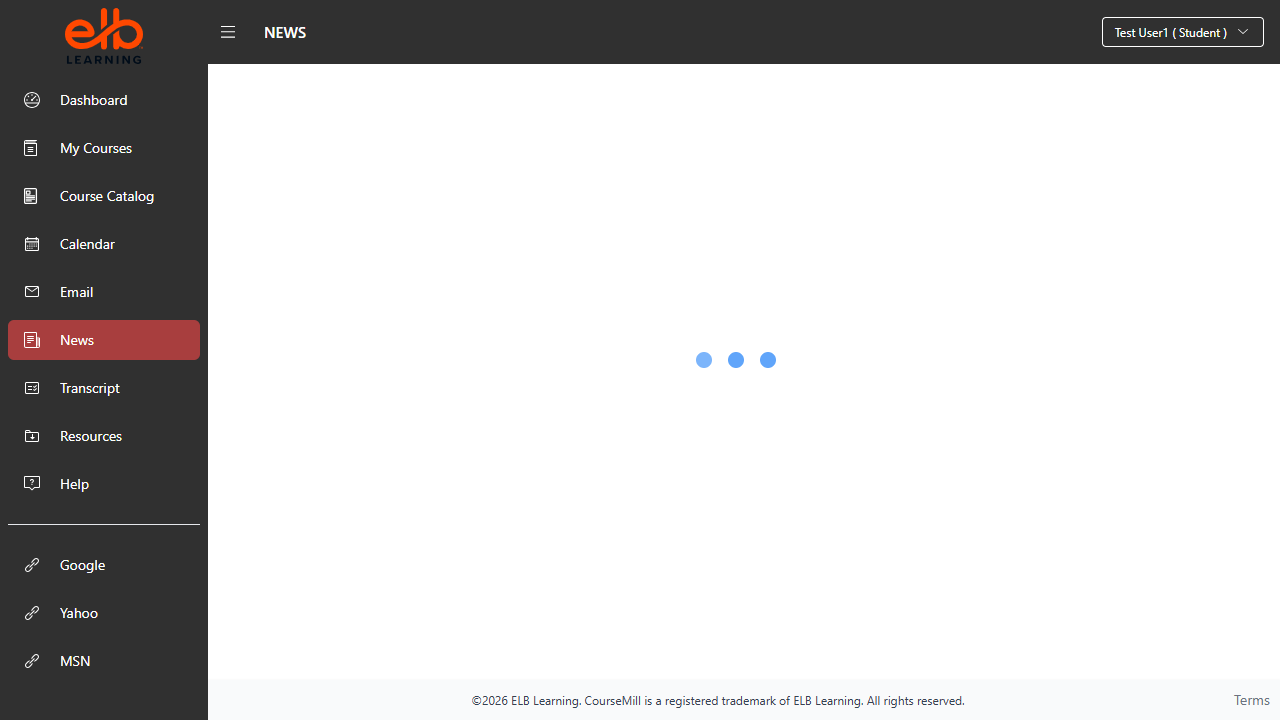
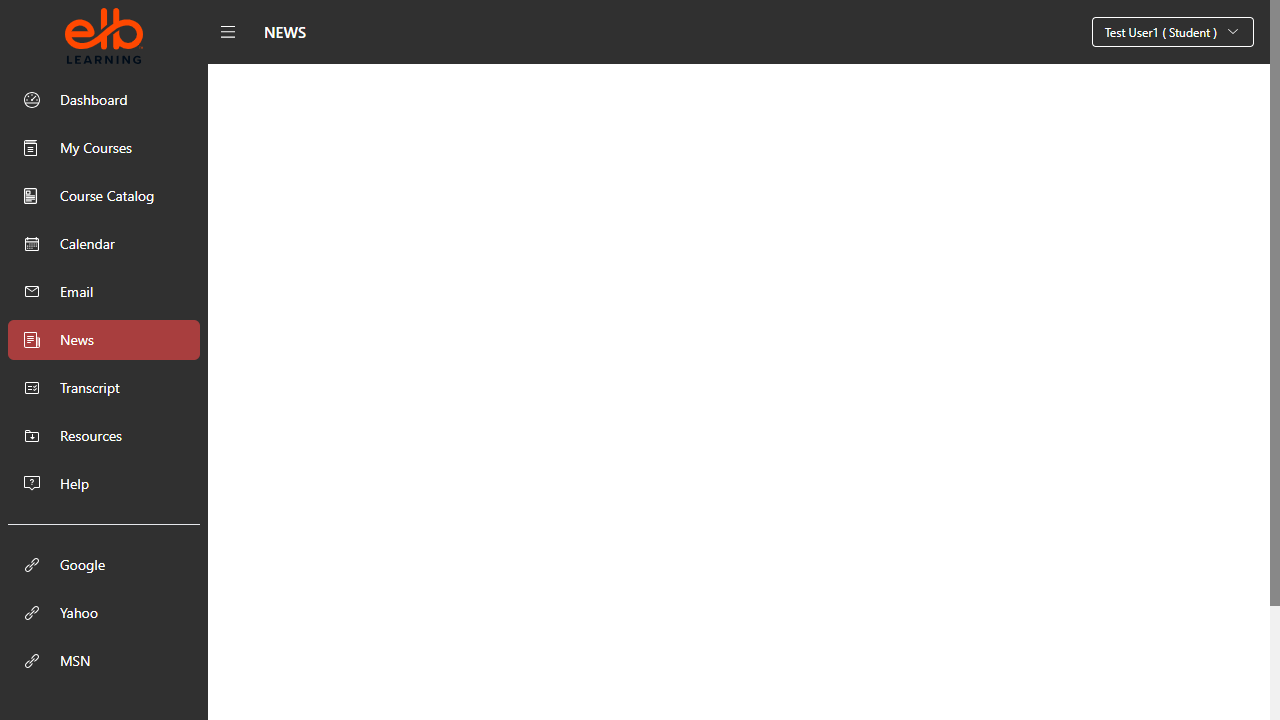
Auto update report - 1/4/2026, 1:42:12 pm

diff --git a/ortoni-report/index.html b/ortoni-report/index.html
@@ -14,7 +14,7 @@
   </head>
   <body>
     <script id="__ORTONI_REPORT_DATA__" type="application/json">
-      {"data":{"summary":{"overAllResult":{"pass":9,"fail":0,"skip":0,"retry":0,"flaky":0,"total":9},"successRate":"100.00","lastRunDate":"Apr 01, 2026, 01:17 PM","totalDuration":47705.105,"stats":{"projectNames":[""],"totalTests":[9],"passedTests":[9],"failedTests":[0],"skippedTests":[0],"retryTests":[0],"flakyTests":[0]}},"testResult":{"tests":{"Login.spec.ts":{"Login Page UI Validation":[{"suiteHierarchy":"","key":"Login.spec.ts::Login Page UI Validation-42af536f2c838a173cb6-3d7df92dbd3a28149a26-0","annotations":[],"testTags":[],"location":"Login.spec.ts:5:5","retryAttemptCount":0,"projectName":"","suite":"Login Page UI Validation","title":"Login Page UI Validation","status":"passed","flaky":"expected","duration":11023,"errors":[],"steps":[{"snippet":"","title":"Before Hooks","location":"","duration":4708,"status":"passed","category":"hook","steps":[{"snippet":"","title":"Fixture \"browser\"","location":"","duration":1363,"status":"passed","category":"fixture","steps":[{"snippet":"","title":"Launch browser","location":"","duration":1324,"status":"passed","category":"pw:api","steps":[]}]},{"snippet":"","title":"Fixture \"context\"","location":"","duration":141,"status":"passed","category":"fixture","steps":[{"snippet":"","title":"Create context","location":"","duration":36,"status":"passed","category":"pw:api","steps":[]}]},{"snippet":"","title":"Fixture \"page\"","location":"","duration":3146,"status":"passed","category":"fixture","steps":[{"snippet":"","title":"Create page","location":"","duration":3113,"status":"passed","category":"pw:api","steps":[]}]}]},{"snippet":"","title":"Navigate to \"/nsui/login?route=/dashboard\"","location":"","duration":4925,"status":"passed","category":"pw:api","steps":[]},{"snippet":"","title":"Expect \"toBeVisible\" locator('#username')","location":"","duration":171,"status":"passed","category":"expect","steps":[]},{"snippet":"","title":"Expect \"toBeVisible\" locator('#password')","location":"","duration":21,"status":"passed","category":"expect","steps":[]},{"snippet":"","title":"Expect \"toBeVisible\" locator('#submitBtn')","location":"","duration":18,"status":"passed","category":"expect","steps":[]},{"snippet":"","title":"After Hooks","location":"","duration":2458,"status":"passed","category":"hook","steps":[{"snippet":"","title":"Fixture \"page\"","location":"","duration":1,"status":"passed","category":"fixture","steps":[]},{"snippet":"","title":"Fixture \"context\"","location":"","duration":2093,"status":"passed","category":"fixture","steps":[{"snippet":"","title":"Close context","location":"","duration":1913,"status":"passed","category":"pw:api","steps":[]}]}]}],"logs":"","filePath":"Login.spec.ts","filters":{},"testId":"Login.spec.ts::Login Page UI Validation","screenshots":["ortoni-data\\attachments\\42af536f2c838a173cb6-3d7df92dbd3a28149a26\\retry-0\\test-finished-1.png"],"videoPath":[],"index":0}],"Empty Login Validation":[{"suiteHierarchy":"","key":"Login.spec.ts::Empty Login Validation-42af536f2c838a173cb6-2ecf628d08fdfabc7750-0","annotations":[],"testTags":[],"location":"Login.spec.ts:12:5","retryAttemptCount":0,"projectName":"","suite":"Empty Login Validation","title":"Empty Login Validation","status":"passed","flaky":"expected","duration":8720,"errors":[],"steps":[{"snippet":"","title":"Before Hooks","location":"","duration":1964,"status":"passed","category":"hook","steps":[{"snippet":"","title":"Fixture \"context\"","location":"","duration":122,"status":"passed","category":"fixture","steps":[{"snippet":"","title":"Create context","location":"","duration":114,"status":"passed","category":"pw:api","steps":[]}]},{"snippet":"","title":"Fixture \"page\"","location":"","duration":1544,"status":"passed","category":"fixture","steps":[{"snippet":"","title":"Create page","location":"","duration":1538,"status":"passed","category":"pw:api","steps":[]}]}]},{"snippet":"","title":"Navigate to \"/nsui/login?route=/dashboard\"","location":"","duration":4940,"status":"passed","category":"pw:api","steps":[]},{"snippet":"","title":"Wait for selector locator('#username')","location":"","duration":314,"status":"passed","category":"pw:api","steps":[]},{"snippet":"","title":"Expect \"toBeDisabled\" locator('#submitBtn')","location":"","duration":35,"status":"passed","category":"expect","steps":[]},{"snippet":"","title":"After Hooks","location":"","duration":1775,"status":"passed","category":"hook","steps":[{"snippet":"","title":"Fixture \"page\"","location":"","duration":0,"status":"passed","category":"fixture","steps":[]},{"snippet":"","title":"Fixture \"context\"","location":"","duration":1454,"status":"passed","category":"fixture","steps":[{"snippet":"","title":"Close context","location":"","duration":1442,"status":"passed","category":"pw:api","steps":[]}]}]}],"logs":"","filePath":"Login.spec.ts","filters":{},"testId":"Login.spec.ts::Empty Login Validation","screenshots":["ortoni-data\\attachments\\42af536f2c838a173cb6-2ecf628d08fdfabc7750\\retry-0\\test-finished-1.png"],"videoPath":[],"index":2}],"Invalid Login":[{"suiteHierarchy":"","key":"Login.spec.ts::Invalid Login-42af536f2c838a173cb6-524bcc8382ec463dd5bd-0","annotations":[],"testTags":[],"location":"Login.spec.ts:25:5","retryAttemptCount":0,"projectName":"","suite":"Invalid Login","title":"Invalid Login","status":"passed","flaky":"expected","duration":8716,"errors":[],"steps":[{"snippet":"","title":"Before Hooks","location":"","duration":1736,"status":"passed","category":"hook","steps":[{"snippet":"","title":"Fixture \"context\"","location":"","duration":35,"status":"passed","category":"fixture","steps":[{"snippet":"","title":"Create context","location":"","duration":30,"status":"passed","category":"pw:api","steps":[]}]},{"snippet":"","title":"Fixture \"page\"","location":"","duration":1636,"status":"passed","category":"fixture","steps":[{"snippet":"","title":"Create page","location":"","duration":1631,"status":"passed","category":"pw:api","steps":[]}]}]},{"snippet":"","title":"Navigate to \"/nsui/login?route=/dashboard\"","location":"","duration":4960,"status":"passed","category":"pw:api","steps":[]},{"snippet":"","title":"Fill \"wrong\" locator('#username')","location":"","duration":188,"status":"passed","category":"pw:api","steps":[]},{"snippet":"","title":"Fill \"wrong\" locator('#password')","location":"","duration":41,"status":"passed","category":"pw:api","steps":[]},{"snippet":"","title":"Click locator('#submitBtn')","location":"","duration":118,"status":"passed","category":"pw:api","steps":[]},{"snippet":"","title":"Expect \"toBeVisible\" locator('text=The User ID/Password combination you have entered is invalid. Please try again.')","location":"","duration":421,"status":"passed","category":"expect","steps":[]},{"snippet":"","title":"After Hooks","location":"","duration":1305,"status":"passed","category":"hook","steps":[{"snippet":"","title":"Fixture \"page\"","location":"","duration":0,"status":"passed","category":"fixture","steps":[]},{"snippet":"","title":"Fixture \"context\"","location":"","duration":624,"status":"passed","category":"fixture","steps":[{"snippet":"","title":"Close context","location":"","duration":614,"status":"passed","category":"pw:api","steps":[]}]}]}],"logs":"","filePath":"Login.spec.ts","filters":{},"testId":"Login.spec.ts::Invalid Login","screenshots":["ortoni-data\\attachments\\42af536f2c838a173cb6-524bcc8382ec463dd5bd\\retry-0\\test-finished-1.png"],"videoPath":[],"index":6}],"Valid Login - CourseMill":[{"suiteHierarchy":"","key":"Login.spec.ts::Valid Login - CourseMill-42af536f2c838a173cb6-52683aa44eae3026a2e3-0","annotations":[],"testTags":[],"location":"Login.spec.ts:34:5","retryAttemptCount":0,"projectName":"","suite":"Valid Login - CourseMill","title":"Valid Login - CourseMill","status":"passed","flaky":"expected","duration":7325,"errors":[],"steps":[{"snippet":"","title":"Before Hooks","location":"","duration":657,"status":"passed","category":"hook","steps":[{"snippet":"","title":"Fixture \"context\"","location":"","duration":31,"status":"passed","category":"fixture","steps":[{"snippet":"","title":"Create context","location":"","duration":28,"status":"passed","category":"pw:api","steps":[]}]},{"snippet":"","title":"Fixture \"page\"","location":"","duration":592,"status":"passed","category":"fixture","steps":[{"snippet":"","title":"Create page","location":"","duration":588,"status":"passed","category":"pw:api","steps":[]}]}]},{"snippet":"","title":"Navigate to \"/nsui/login?route=/dashboard\"","location":"","duration":5046,"status":"passed","category":"pw:api","steps":[]},{"snippet":"","title":"Fill \"nandhinid-student\" locator('#username')","location":"","duration":176,"status":"passed","category":"pw:api","steps":[]},{"snippet":"","title":"Fill \"P@ssw0rd\" locator('#password')","location":"","duration":40,"status":"passed","category":"pw:api","steps":[]},{"snippet":"","title":"Click locator('#submitBtn')","location":"","duration":63,"status":"passed","category":"pw:api","steps":[]},{"snippet":"","title":"Expect \"toHaveURL\"","location":"","duration":24,"status":"passed","category":"expect","steps":[]},{"snippet":"","title":"After Hooks","location":"","duration":1355,"status":"passed","category":"hook","steps":[{"snippet":"","title":"Fixture \"page\"","location":"","duration":0,"status":"passed","category":"fixture","steps":[]},{"snippet":"","title":"Fixture \"context\"","location":"","duration":1122,"status":"passed","category":"fixture","steps":[{"snippet":"","title":"Close context","location":"","duration":1110,"status":"passed","category":"pw:api","steps":[]}]}]}],"logs":"","filePath":"Login.spec.ts","filters":{},"testId":"Login.spec.ts::Valid Login - CourseMill","screenshots":["ortoni-data\\attachments\\42af536f2c838a173cb6-52683aa44eae3026a2e3\\retry-0\\test-finished-1.png"],"videoPath":[],"index":7}]},"Email.spec.ts":{"News Page Validation":[{"suiteHierarchy":"","key":"Email.spec.ts::News Page Validation-25ae2b07434871a76d8a-6d5edecf8000207f4c58-0","annotations":[],"testTags":[],"location":"Email.spec.ts:4:5","retryAttemptCount":0,"projectName":"","suite":"News Page Validation","title":"News Page Validation","status":"passed","flaky":"expected","duration":13377,"errors":[],"steps":[{"snippet":"","title":"Before Hooks","location":"","duration":4714,"status":"passed","category":"hook","steps":[{"snippet":"","title":"Fixture \"browser\"","location":"","duration":2162,"status":"passed","category":"fixture","steps":[{"snippet":"","title":"Launch browser","location":"","duration":2132,"status":"passed","category":"pw:api","steps":[]}]},{"snippet":"","title":"Fixture \"context\"","location":"","duration":121,"status":"passed","category":"fixture","steps":[{"snippet":"","title":"Create context","location":"","duration":26,"status":"passed","category":"pw:api","steps":[]}]},{"snippet":"","title":"Fixture \"page\"","location":"","duration":2343,"status":"passed","category":"fixture","steps":[{"snippet":"","title":"Create page","location":"","duration":2271,"status":"passed","category":"pw:api","steps":[]}]}]},{"snippet":"","title":"Navigate to \"/nsui/login?route=/dashboard\"","location":"","duration":5188,"status":"passed","category":"pw:api","steps":[]},{"snippet":"","title":"Fill \"regtestuser_01\" locator('#username')","location":"","duration":309,"status":"passed","category":"pw:api","steps":[]},{"snippet":"","title":"Fill \"P@ssw0rd\" locator('#password')","location":"","duration":49,"status":"passed","category":"pw:api","steps":[]},{"snippet":"","title":"Click locator('#submitBtn')","location":"","duration":116,"status":"passed","category":"pw:api","steps":[]},{"snippet":"","title":"Expect \"toBeVisible\" locator('a[href=\"/nsui/email\"]')","location":"","duration":3088,"status":"passed","category":"expect","steps":[]},{"snippet":"","title":"Click locator('a[href=\"/nsui/email\"]')","location":"","duration":89,"status":"passed","category":"pw:api","steps":[]},{"snippet":"","title":"Expect \"toHaveURL\"","location":"","duration":1021,"status":"passed","category":"expect","steps":[]},{"snippet":"","title":"After Hooks","location":"","duration":907,"status":"passed","category":"hook","steps":[{"snippet":"","title":"Fixture \"page\"","location":"","duration":0,"status":"passed","category":"fixture","steps":[]},{"snippet":"","title":"Fixture \"context\"","location":"","duration":649,"status":"passed","category":"fixture","steps":[{"snippet":"","title":"Close context","location":"","duration":553,"status":"passed","category":"pw:api","steps":[]}]}]}],"logs":"","filePath":"Email.spec.ts","filters":{},"testId":"Email.spec.ts::News Page Validation","screenshots":["ortoni-data\\attachments\\25ae2b07434871a76d8a-6d5edecf8000207f4c58\\retry-0\\test-finished-1.png"],"videoPath":[],"index":1}]},"Forgotpassword.spec.ts":{"Forgot Password - Full Validation":[{"suiteHierarchy":"","key":"Forgotpassword.spec.ts::Forgot Password - Full Validation-7879cf711710044d8d36-02c3863d4a0394ef81f5-0","annotations":[],"testTags":[],"location":"Forgotpassword.spec.ts:4:5","retryAttemptCount":0,"projectName":"","suite":"Forgot Password - Full Validation","title":"Forgot Password - Full Validation","status":"passed","flaky":"expected","duration":24028,"errors":[],"steps":[{"snippet":"","title":"Before Hooks","location":"","duration":4320,"status":"passed","category":"hook","steps":[{"snippet":"","title":"Fixture \"browser\"","location":"","duration":1316,"status":"passed","category":"fixture","steps":[{"snippet":"","title":"Launch browser","location":"","duration":1271,"status":"passed","category":"pw:api","steps":[]}]},{"snippet":"","title":"Fixture \"context\"","location":"","duration":177,"status":"passed","category":"fixture","steps":[{"snippet":"","title":"Create context","location":"","duration":49,"status":"passed","category":"pw:api","steps":[]}]},{"snippet":"","title":"Fixture \"page\"","location":"","duration":2770,"status":"passed","category":"fixture","steps":[{"snippet":"","title":"Create page","location":"","duration":2701,"status":"passed","category":"pw:api","steps":[]}]}]},{"snippet":"","title":"Navigate to \"/nsui/login?route=/dashboard\"","location":"","duration":5199,"status":"passed","category":"pw:api","steps":[]},{"snippet":"","title":"Click locator('text=Forgot Password')","location":"","duration":373,"status":"passed","category":"pw:api","steps":[]},{"snippet":"","title":"Expect \"toHaveURL\"","location":"","duration":649,"status":"passed","category":"expect","steps":[]},{"snippet":"","title":"Expect \"toBeVisible\" getByText('Forgot Your Password?')","location":"","duration":408,"status":"passed","category":"expect","steps":[]},{"snippet":"","title":"Expect \"toBeVisible\" getByText(/We've got your back/i)","location":"","duration":163,"status":"passed","category":"expect","steps":[]},{"snippet":"","title":"Expect \"toBeVisible\" locator('#username')","location":"","duration":78,"status":"passed","category":"expect","steps":[]},{"snippet":"","title":"Expect \"toBeVisible\" getByRole('button', { name: 'Send Request' })","location":"","duration":54,"status":"passed","category":"expect","steps":[]},{"snippet":"","title":"Expect \"toBeVisible\" getByRole('link', { name: 'Return to Login' })","location":"","duration":13,"status":"passed","category":"expect","steps":[]},{"snippet":"","title":"Expect \"toBeDisabled\" getByRole('button', { name: 'Send Request' })","location":"","duration":18,"status":"passed","category":"expect","steps":[]},{"snippet":"","title":"Fill \"testuser\" locator('#username')","location":"","duration":45,"status":"passed","category":"pw:api","steps":[]},{"snippet":"","title":"Expect \"toBeEnabled\" getByRole('button', { name: 'Send Request' })","location":"","duration":44,"status":"passed","category":"expect","steps":[]},{"snippet":"","title":"Fill \"\" locator('#username')","location":"","duration":54,"status":"passed","category":"pw:api","steps":[]},{"snippet":"","title":"Expect \"toBeDisabled\" getByRole('button', { name: 'Send Request' })","location":"","duration":22,"status":"passed","category":"expect","steps":[]},{"snippet":"","title":"Fill \"invalid_user\" locator('#username')","location":"","duration":22,"status":"passed","category":"pw:api","steps":[]},{"snippet":"","title":"Click getByRole('button', { name: 'Send Request' })","location":"","duration":71,"status":"passed","category":"pw:api","steps":[]},{"snippet":"","title":"Expect \"toBeVisible\" locator('text=Invalid User Data')","location":"","duration":463,"status":"passed","category":"expect","steps":[]},{"snippet":"","title":"Clear locator('#username')","location":"","duration":25,"status":"passed","category":"pw:api","steps":[]},{"snippet":"","title":"Fill \"testn4\" locator('#username')","location":"","duration":23,"status":"passed","category":"pw:api","steps":[]},{"snippet":"","title":"Click getByRole('button', { name: 'Send Request' })","location":"","duration":375,"status":"passed","category":"pw:api","steps":[]},{"snippet":"","title":"Expect \"toBeVisible\" locator('text=An email has been sent to the email address on file with your username/password')","location":"","duration":988,"status":"passed","category":"expect","steps":[]},{"snippet":"","title":"Wait for timeout","location":"","duration":5012,"status":"passed","category":"pw:api","steps":[]},{"snippet":"","title":"Expect \"toBeVisible\" getByRole('heading', { name: 'Help is on the way' })","location":"","duration":22,"status":"passed","category":"expect","steps":[]},{"snippet":"","title":"Expect \"toBeVisible\" locator('text=An email has been sent to your inbox with further instructions.')","location":"","duration":9,"status":"passed","category":"expect","steps":[]},{"snippet":"","title":"Expect \"toBeVisible\" getByRole('button', { name: 'Return to Login' })","location":"","duration":37,"status":"passed","category":"expect","steps":[]},{"snippet":"","title":"Expect \"toBeEnabled\" getByRole('button', { name: 'Return to Login' })","location":"","duration":21,"status":"passed","category":"expect","steps":[]},{"snippet":"","title":"Click getByRole('button', { name: 'Return to Login' })","location":"","duration":159,"status":"passed","category":"pw:api","steps":[]},{"snippet":"","title":"Expect \"toHaveURL\"","location":"","duration":9,"status":"passed","category":"expect","steps":[]},{"snippet":"","title":"Wait for timeout","location":"","duration":5009,"status":"passed","category":"pw:api","steps":[]},{"snippet":"","title":"After Hooks","location":"","duration":1496,"status":"passed","category":"hook","steps":[{"snippet":"","title":"Fixture \"page\"","location":"","duration":1,"status":"passed","category":"fixture","steps":[]},{"snippet":"","title":"Fixture \"context\"","location":"","duration":740,"status":"passed","category":"fixture","steps":[{"snippet":"","title":"Close context","location":"","duration":720,"status":"passed","category":"pw:api","steps":[]}]}]}],"logs":"","filePath":"Forgotpassword.spec.ts","filters":{},"testId":"Forgotpassword.spec.ts::Forgot Password - Full Validation","screenshots":["ortoni-data\\attachments\\7879cf711710044d8d36-02c3863d4a0394ef81f5\\retry-0\\test-finished-1.png"],"videoPath":[],"index":3}]},"News.spec.ts":{"News Page Validation":[{"suiteHierarchy":"","key":"News.spec.ts::News Page Validation-6fb31caa776534690d37-2fe8c9cee7873c532ba1-0","annotations":[],"testTags":[],"location":"News.spec.ts:4:5","retryAttemptCount":0,"projectName":"","suite":"News Page Validation","title":"News Page Validation","status":"passed","flaky":"expected","duration":10403,"errors":[],"steps":[{"snippet":"","title":"Before Hooks","location":"","duration":1000,"status":"passed","category":"hook","steps":[{"snippet":"","title":"Fixture \"context\"","location":"","duration":46,"status":"passed","category":"fixture","steps":[{"snippet":"","title":"Create context","location":"","duration":37,"status":"passed","category":"pw:api","steps":[]}]},{"snippet":"","title":"Fixture \"page\"","location":"","duration":906,"status":"passed","category":"fixture","steps":[{"snippet":"","title":"Create page","location":"","duration":902,"status":"passed","category":"pw:api","steps":[]}]}]},{"snippet":"","title":"Navigate to \"/nsui/login?route=/dashboard\"","location":"","duration":5028,"status":"passed","category":"pw:api","steps":[]},{"snippet":"","title":"Fill \"regtestuser_01\" locator('#username')","location":"","duration":195,"status":"passed","category":"pw:api","steps":[]},{"snippet":"","title":"Fill \"P@ssw0rd\" locator('#password')","location":"","duration":39,"status":"passed","category":"pw:api","steps":[]},{"snippet":"","title":"Click locator('#submitBtn')","location":"","duration":136,"status":"passed","category":"pw:api","steps":[]},{"snippet":"","title":"Expect \"toBeVisible\" locator('a[href=\"/nsui/news\"]')","location":"","duration":2936,"status":"passed","category":"expect","steps":[]},{"snippet":"","title":"Click locator('a[href=\"/nsui/news\"]')","location":"","duration":78,"status":"passed","category":"pw:api","steps":[]},{"snippet":"","title":"Expect \"toHaveURL\"","location":"","duration":392,"status":"passed","category":"expect","steps":[]},{"snippet":"","title":"After Hooks","location":"","duration":647,"status":"passed","category":"hook","steps":[{"snippet":"","title":"Fixture \"page\"","location":"","duration":1,"status":"passed","category":"fixture","steps":[]},{"snippet":"","title":"Fixture \"context\"","location":"","duration":425,"status":"passed","category":"fixture","steps":[{"snippet":"","title":"Close context","location":"","duration":406,"status":"passed","category":"pw:api","steps":[]}]}]}],"logs":"","filePath":"News.spec.ts","filters":{},"testId":"News.spec.ts::News Page Validation","screenshots":["ortoni-data\\attachments\\6fb31caa776534690d37-2fe8c9cee7873c532ba1\\retry-0\\test-finished-1.png"],"videoPath":[],"index":4}]},"Help.spec.ts":{"Help Page Validation":[{"suiteHierarchy":"","key":"Help.spec.ts::Help Page Validation-ebc9c2523486987fa28c-f0fae3ef5588e1e17cb0-0","annotations":[],"testTags":[],"location":"Help.spec.ts:4:5","retryAttemptCount":0,"projectName":"","suite":"Help Page Validation","title":"Help Page Validation","status":"passed","flaky":"expected","duration":24513,"errors":[],"steps":[{"snippet":"","title":"Before Hooks","location":"","duration":4908,"status":"passed","category":"hook","steps":[{"snippet":"","title":"Fixture \"browser\"","location":"","duration":2134,"status":"passed","category":"fixture","steps":[{"snippet":"","title":"Launch browser","location":"","duration":2104,"status":"passed","category":"pw:api","steps":[]}]},{"snippet":"","title":"Fixture \"context\"","location":"","duration":114,"status":"passed","category":"fixture","steps":[{"snippet":"","title":"Create context","location":"","duration":34,"status":"passed","category":"pw:api","steps":[]}]},{"snippet":"","title":"Fixture \"page\"","location":"","duration":2562,"status":"passed","category":"fixture","steps":[{"snippet":"","title":"Create page","location":"","duration":2474,"status":"passed","category":"pw:api","steps":[]}]}]},{"snippet":"","title":"Navigate to \"/nsui/login?route=/dashboard\"","location":"","duration":5150,"status":"passed","category":"pw:api","steps":[]},{"snippet":"","title":"Fill \"regtestuser_01\" locator('#username')","location":"","duration":865,"status":"passed","category":"pw:api","steps":[]},{"snippet":"","title":"Fill \"P@ssw0rd\" locator('#password')","location":"","duration":42,"status":"passed","category":"pw:api","steps":[]},{"snippet":"","title":"Click locator('#submitBtn')","location":"","duration":98,"status":"passed","category":"pw:api","steps":[]},{"snippet":"","title":"Expect \"toBeVisible\" getByRole('link', { name: 'Help' })","location":"","duration":2452,"status":"passed","category":"expect","steps":[]},{"snippet":"","title":"Wait for event \"page\"","location":"","duration":3718,"status":"passed","category":"pw:api","steps":[]},{"snippet":"","title":"Click getByRole('link', { name: 'Help' })","location":"","duration":1788,"status":"passed","category":"pw:api","steps":[]},{"snippet":"","title":"Wait for load state \"load\"","location":"","duration":5517,"status":"passed","category":"pw:api","steps":[]},{"snippet":"","title":"Expect \"toHaveURL\"","location":"","duration":145,"status":"passed","category":"expect","steps":[]},{"snippet":"","title":"Expect \"toHaveTitle\"","location":"","duration":10,"status":"passed","category":"expect","steps":[]},{"snippet":"","title":"Close page","location":"","duration":167,"status":"passed","category":"pw:api","steps":[]},{"snippet":"","title":"After Hooks","location":"","duration":3423,"status":"passed","category":"hook","steps":[{"snippet":"","title":"Fixture \"page\"","location":"","duration":0,"status":"passed","category":"fixture","steps":[]},{"snippet":"","title":"Fixture \"context\"","location":"","duration":2649,"status":"passed","category":"fixture","steps":[{"snippet":"","title":"Close context","location":"","duration":2629,"status":"passed","category":"pw:api","steps":[]}]}]}],"logs":"","filePath":"Help.spec.ts","filters":{},"testId":"Help.spec.ts::Help Page Validation","screenshots":["ortoni-data\\attachments\\ebc9c2523486987fa28c-f0fae3ef5588e1e17cb0\\retry-0\\test-finished-1.png"],"videoPath":[],"index":5}]},"Resource.spec.ts":{"Resource Page - UI, Search, Clear and Link Validation":[{"suiteHierarchy":"","key":"Resource.spec.ts::Resource Page - UI, Search, Clear and Link Validation-b63ac8f6290e3d871544-4edb1ee13196422bdf89-0","annotations":[],"testTags":[],"location":"Resource.spec.ts:4:5","retryAttemptCount":0,"projectName":"","suite":"Resource Page - UI, Search, Clear and Link Validation","title":"Resource Page - UI, Search, Clear and Link Validation","status":"passed","flaky":"expected","duration":15130,"errors":[],"steps":[{"snippet":"","title":"Before Hooks","location":"","duration":965,"status":"passed","category":"hook","steps":[{"snippet":"","title":"Fixture \"context\"","location":"","duration":36,"status":"passed","category":"fixture","steps":[{"snippet":"","title":"Create context","location":"","duration":23,"status":"passed","category":"pw:api","steps":[]}]},{"snippet":"","title":"Fixture \"page\"","location":"","duration":861,"status":"passed","category":"fixture","steps":[{"snippet":"","title":"Create page","location":"","duration":855,"status":"passed","category":"pw:api","steps":[]}]}]},{"snippet":"","title":"Navigate to \"/nsui/login?route=/dashboard\"","location":"","duration":6485,"status":"passed","category":"pw:api","steps":[]},{"snippet":"","title":"Fill \"regtestuser_01\" locator('#username')","location":"","duration":150,"status":"passed","category":"pw:api","steps":[]},{"snippet":"","title":"Fill \"P@ssw0rd\" locator('#password')","location":"","duration":42,"status":"passed","category":"pw:api","steps":[]},{"snippet":"","title":"Click locator('#submitBtn')","location":"","duration":86,"status":"passed","category":"pw:api","steps":[]},{"snippet":"","title":"Expect \"toBeVisible\" locator('a[href=\"/nsui/resources\"]')","location":"","duration":2929,"status":"passed","category":"expect","steps":[]},{"snippet":"","title":"Click locator('a[href=\"/nsui/resources\"]')","location":"","duration":88,"status":"passed","category":"pw:api","steps":[]},{"snippet":"","title":"Expect \"toHaveURL\"","location":"","duration":381,"status":"passed","category":"expect","steps":[]},{"snippet":"","title":"Expect \"toBeVisible\" locator('#default-search')","location":"","duration":9,"status":"passed","category":"expect","steps":[]},{"snippet":"","title":"Expect \"toBeVisible\" getByRole('button', { name: 'Search' })","location":"","duration":33,"status":"passed","category":"expect","steps":[]},{"snippet":"","title":"Expect \"toBeVisible\" getByRole('button', { name: 'Clear' })","location":"","duration":45,"status":"passed","category":"expect","steps":[]},{"snippet":"","title":"Expect \"toBeVisible\" getByText('TYPE')","location":"","duration":13,"status":"passed","category":"expect","steps":[]},{"snippet":"","title":"Expect \"toBeVisible\" getByText('NAME')","location":"","duration":7,"status":"passed","category":"expect","steps":[]},{"snippet":"","title":"Expect \"toBeVisible\" getByText('DESCRIPTION')","location":"","duration":9,"status":"passed","category":"expect","steps":[]},{"snippet":"","title":"Expect \"toBeVisible\" getByText('DATE POSTED')","location":"","duration":8,"status":"passed","category":"expect","steps":[]},{"snippet":"","title":"Fill \"graduation\" locator('#default-search')","location":"","duration":25,"status":"passed","category":"pw:api","steps":[]},{"snippet":"","title":"Click getByRole('button', { name: 'Search' })","location":"","duration":90,"status":"passed","category":"pw:api","steps":[]},{"snippet":"","title":"Expect \"toBeVisible\" locator('table')","location":"","duration":8,"status":"passed","category":"expect","steps":[]},{"snippet":"","title":"Expect \"toContainText\" locator('table')","location":"","duration":381,"status":"passed","category":"expect","steps":[]},{"snippet":"","title":"Click getByRole('button', { name: 'Clear' })","location":"","duration":67,"status":"passed","category":"pw:api","steps":[]},{"snippet":"","title":"Expect \"toHaveValue\" locator('#default-search')","location":"","duration":11,"status":"passed","category":"expect","steps":[]},{"snippet":"","title":"Fill \"NoData123\" locator('#default-search')","location":"","duration":28,"status":"passed","category":"pw:api","steps":[]},{"snippet":"","title":"Click getByRole('button', { name: 'Search' })","location":"","duration":306,"status":"passed","category":"pw:api","steps":[]},{"snippet":"","title":"Expect \"toBeVisible\" getByText(/No Results Found/i)","location":"","duration":397,"status":"passed","category":"expect","steps":[]},{"snippet":"","title":"Click getByRole('button', { name: 'Clear' })","location":"","duration":57,"status":"passed","category":"pw:api","steps":[]},{"snippet":"","title":"Wait for event \"page\"","location":"","duration":807,"status":"passed","category":"pw:api","steps":[]},{"snippet":"","title":"Click locator('table tbody tr td a').first()","location":"","duration":531,"status":"passed","category":"pw:api","steps":[]},{"snippet":"","title":"Wait for load state \"load\"","location":"","duration":702,"status":"passed","category":"pw:api","steps":[]},{"snippet":"","title":"Expect \"toHaveURL\"","location":"","duration":68,"status":"passed","category":"expect","steps":[]},{"snippet":"","title":"Close page","location":"","duration":33,"status":"passed","category":"pw:api","steps":[]},{"snippet":"","title":"After Hooks","location":"","duration":858,"status":"passed","category":"hook","steps":[{"snippet":"","title":"Fixture \"page\"","location":"","duration":1,"status":"passed","category":"fixture","steps":[]},{"snippet":"","title":"Fixture \"context\"","location":"","duration":678,"status":"passed","category":"fixture","steps":[{"snippet":"","title":"Close context","location":"","duration":669,"status":"passed","category":"pw:api","steps":[]}]}]}],"logs":"","filePath":"Resource.spec.ts","filters":{},"testId":"Resource.spec.ts::Resource Page - UI, Search, Clear and Link Validation","screenshots":["ortoni-data\\attachments\\b63ac8f6290e3d871544-4edb1ee13196422bdf89\\retry-0\\test-finished-1.png"],"videoPath":[],"index":8}]}},"testHistories":[{"testId":"Login.spec.ts::Login Page UI Validation","history":[{"status":"passed","duration":11023,"run_date":"2026-04-01T07:47:49.991Z"}]},{"testId":"Email.spec.ts::News Page Validation","history":[{"status":"passed","duration":13377,"run_date":"2026-04-01T07:47:49.991Z"},{"status":"passed","duration":9853,"run_date":"2026-04-01T07:17:40.886Z"}]},{"testId":"Login.spec.ts::Empty Login Validation","history":[{"status":"passed","duration":8720,"run_date":"2026-04-01T07:47:49.991Z"}]},{"testId":"Forgotpassword.spec.ts::Forgot Password - Full Validation","history":[{"status":"passed","duration":24028,"run_date":"2026-04-01T07:47:49.991Z"},{"status":"passed","duration":19897,"run_date":"2026-04-01T07:36:42.797Z"}]},{"testId":"News.spec.ts::News Page Validation","history":[{"status":"passed","duration":10403,"run_date":"2026-04-01T07:47:49.991Z"}]},{"testId":"Help.spec.ts::Help Page Validation","history":[{"status":"passed","duration":24513,"run_date":"2026-04-01T07:47:49.991Z"}]},{"testId":"Login.spec.ts::Invalid Login","history":[{"status":"passed","duration":8716,"run_date":"2026-04-01T07:47:49.991Z"}]},{"testId":"Login.spec.ts::Valid Login - CourseMill","history":[{"status":"passed","duration":7325,"run_date":"2026-04-01T07:47:49.991Z"}]},{"testId":"Resource.spec.ts::Resource Page - UI, Search, Clear and Link Validation","history":[{"status":"passed","duration":15130,"run_date":"2026-04-01T07:47:49.991Z"}]}],"allTags":[],"set":{}},"userConfig":{},"userMeta":{},"preferences":{"showProject":false},"analytics":{"reportData":{"summary":{"totalRuns":3,"totalTests":11,"passed":11,"failed":0,"passRate":100,"avgDuration":13908},"trends":[{"run_date":"2026-04-01T07:17:40.886Z","passed":1,"failed":0,"avg_duration":9853},{"run_date":"2026-04-01T07:36:42.797Z","passed":1,"failed":0,"avg_duration":19897},{"run_date":"2026-04-01T07:47:49.991Z","passed":9,"failed":0,"avg_duration":13693}],"flakyTests":[],"slowTests":[{"test_id":"Help.spec.ts::Help Page Validation","avg_duration":24513},{"test_id":"Forgotpassword.spec.ts::Forgot Password - Full Validation","avg_duration":21963},{"test_id":"Resource.spec.ts::Resource Page - UI, Search, Clear and Link Validation","avg_duration":15130},{"test_id":"Email.spec.ts::News Page Validation","avg_duration":11615},{"test_id":"Login.spec.ts::Login Page UI Validation","avg_duration":11023},{"test_id":"News.spec.ts::News Page Validation","avg_duration":10403},{"test_id":"Login.spec.ts::Empty Login Validation","avg_duration":8720},{"test_id":"Login.spec.ts::Invalid Login","avg_duration":8716},{"test_id":"Login.spec.ts::Valid Login - CourseMill","avg_duration":7325}]}}}}
+      {"data":{"summary":{"overAllResult":{"pass":1,"fail":0,"skip":0,"retry":0,"flaky":0,"total":1},"successRate":"100.00","lastRunDate":"Apr 01, 2026, 01:42 PM","totalDuration":15647.748000000001,"stats":{"projectNames":[""],"totalTests":[1],"passedTests":[1],"failedTests":[0],"skippedTests":[0],"retryTests":[0],"flakyTests":[0]}},"testResult":{"tests":{"News.spec.ts":{"News Page Validation":[{"suiteHierarchy":"","key":"News.spec.ts::News Page Validation-6fb31caa776534690d37-2fe8c9cee7873c532ba1-0","annotations":[],"testTags":[],"location":"News.spec.ts:4:5","retryAttemptCount":0,"projectName":"","suite":"News Page Validation","title":"News Page Validation","status":"passed","flaky":"expected","duration":10391,"errors":[],"steps":[{"snippet":"","title":"Before Hooks","location":"","duration":1916,"status":"passed","category":"hook","steps":[{"snippet":"","title":"Fixture \"browser\"","location":"","duration":1030,"status":"passed","category":"fixture","steps":[{"snippet":"","title":"Launch browser","location":"","duration":1012,"status":"passed","category":"pw:api","steps":[]}]},{"snippet":"","title":"Fixture \"context\"","location":"","duration":49,"status":"passed","category":"fixture","steps":[{"snippet":"","title":"Create context","location":"","duration":24,"status":"passed","category":"pw:api","steps":[]}]},{"snippet":"","title":"Fixture \"page\"","location":"","duration":812,"status":"passed","category":"fixture","steps":[{"snippet":"","title":"Create page","location":"","duration":803,"status":"passed","category":"pw:api","steps":[]}]}]},{"snippet":"","title":"Navigate to \"/nsui/login?route=/dashboard\"","location":"","duration":4854,"status":"passed","category":"pw:api","steps":[]},{"snippet":"","title":"Fill \"regtestuser_01\" locator('#username')","location":"","duration":124,"status":"passed","category":"pw:api","steps":[]},{"snippet":"","title":"Fill \"P@ssw0rd\" locator('#password')","location":"","duration":44,"status":"passed","category":"pw:api","steps":[]},{"snippet":"","title":"Click locator('#submitBtn')","location":"","duration":67,"status":"passed","category":"pw:api","steps":[]},{"snippet":"","title":"Expect \"toBeVisible\" locator('a[href=\"/nsui/news\"]')","location":"","duration":2954,"status":"passed","category":"expect","steps":[]},{"snippet":"","title":"Click locator('a[href=\"/nsui/news\"]')","location":"","duration":87,"status":"passed","category":"pw:api","steps":[]},{"snippet":"","title":"Expect \"toHaveURL\"","location":"","duration":887,"status":"passed","category":"expect","steps":[]},{"snippet":"","title":"After Hooks","location":"","duration":486,"status":"passed","category":"hook","steps":[{"snippet":"","title":"Fixture \"page\"","location":"","duration":0,"status":"passed","category":"fixture","steps":[]},{"snippet":"","title":"Fixture \"context\"","location":"","duration":296,"status":"passed","category":"fixture","steps":[{"snippet":"","title":"Close context","location":"","duration":282,"status":"passed","category":"pw:api","steps":[]}]}]}],"logs":"","filePath":"News.spec.ts","filters":{},"testId":"News.spec.ts::News Page Validation","screenshots":["ortoni-data\\attachments\\6fb31caa776534690d37-2fe8c9cee7873c532ba1\\retry-0\\test-finished-1.png"],"videoPath":[],"index":0}]}},"testHistories":[{"testId":"News.spec.ts::News Page Validation","history":[{"status":"passed","duration":10391,"run_date":"2026-04-01T08:12:01.911Z"},{"status":"passed","duration":10403,"run_date":"2026-04-01T07:47:49.991Z"}]}],"allTags":[],"set":{}},"userConfig":{},"userMeta":{},"preferences":{"showProject":false},"analytics":{"reportData":{"summary":{"totalRuns":4,"totalTests":12,"passed":12,"failed":0,"passRate":100,"avgDuration":13615},"trends":[{"run_date":"2026-04-01T07:17:40.886Z","passed":1,"failed":0,"avg_duration":9853},{"run_date":"2026-04-01T07:36:42.797Z","passed":1,"failed":0,"avg_duration":19897},{"run_date":"2026-04-01T07:47:49.991Z","passed":9,"failed":0,"avg_duration":13693},{"run_date":"2026-04-01T08:12:01.911Z","passed":1,"failed":0,"avg_duration":10391}],"flakyTests":[],"slowTests":[{"test_id":"Help.spec.ts::Help Page Validation","avg_duration":24513},{"test_id":"Forgotpassword.spec.ts::Forgot Password - Full Validation","avg_duration":21963},{"test_id":"Resource.spec.ts::Resource Page - UI, Search, Clear and Link Validation","avg_duration":15130},{"test_id":"Email.spec.ts::News Page Validation","avg_duration":11615},{"test_id":"Login.spec.ts::Login Page UI Validation","avg_duration":11023},{"test_id":"News.spec.ts::News Page Validation","avg_duration":10397},{"test_id":"Login.spec.ts::Empty Login Validation","avg_duration":8720},{"test_id":"Login.spec.ts::Invalid Login","avg_duration":8716},{"test_id":"Login.spec.ts::Valid Login - CourseMill","avg_duration":7325}]}}}}
     </script>
     <div id="root"></div>
   </body>

diff --git a/sendReport.js b/sendReport.js
@@ -45,7 +45,7 @@ async function sendEmail() {
     });
   });
 
-  const reportLink = "https://Naveen-1a.github.io/Regression_CM/";
+  const reportLink = "https://Naveen-1a.github.io/Regression_CM/ortoni-report/";
 
   // 🔹 Email setup
   let transporter = nodemailer.createTransport({